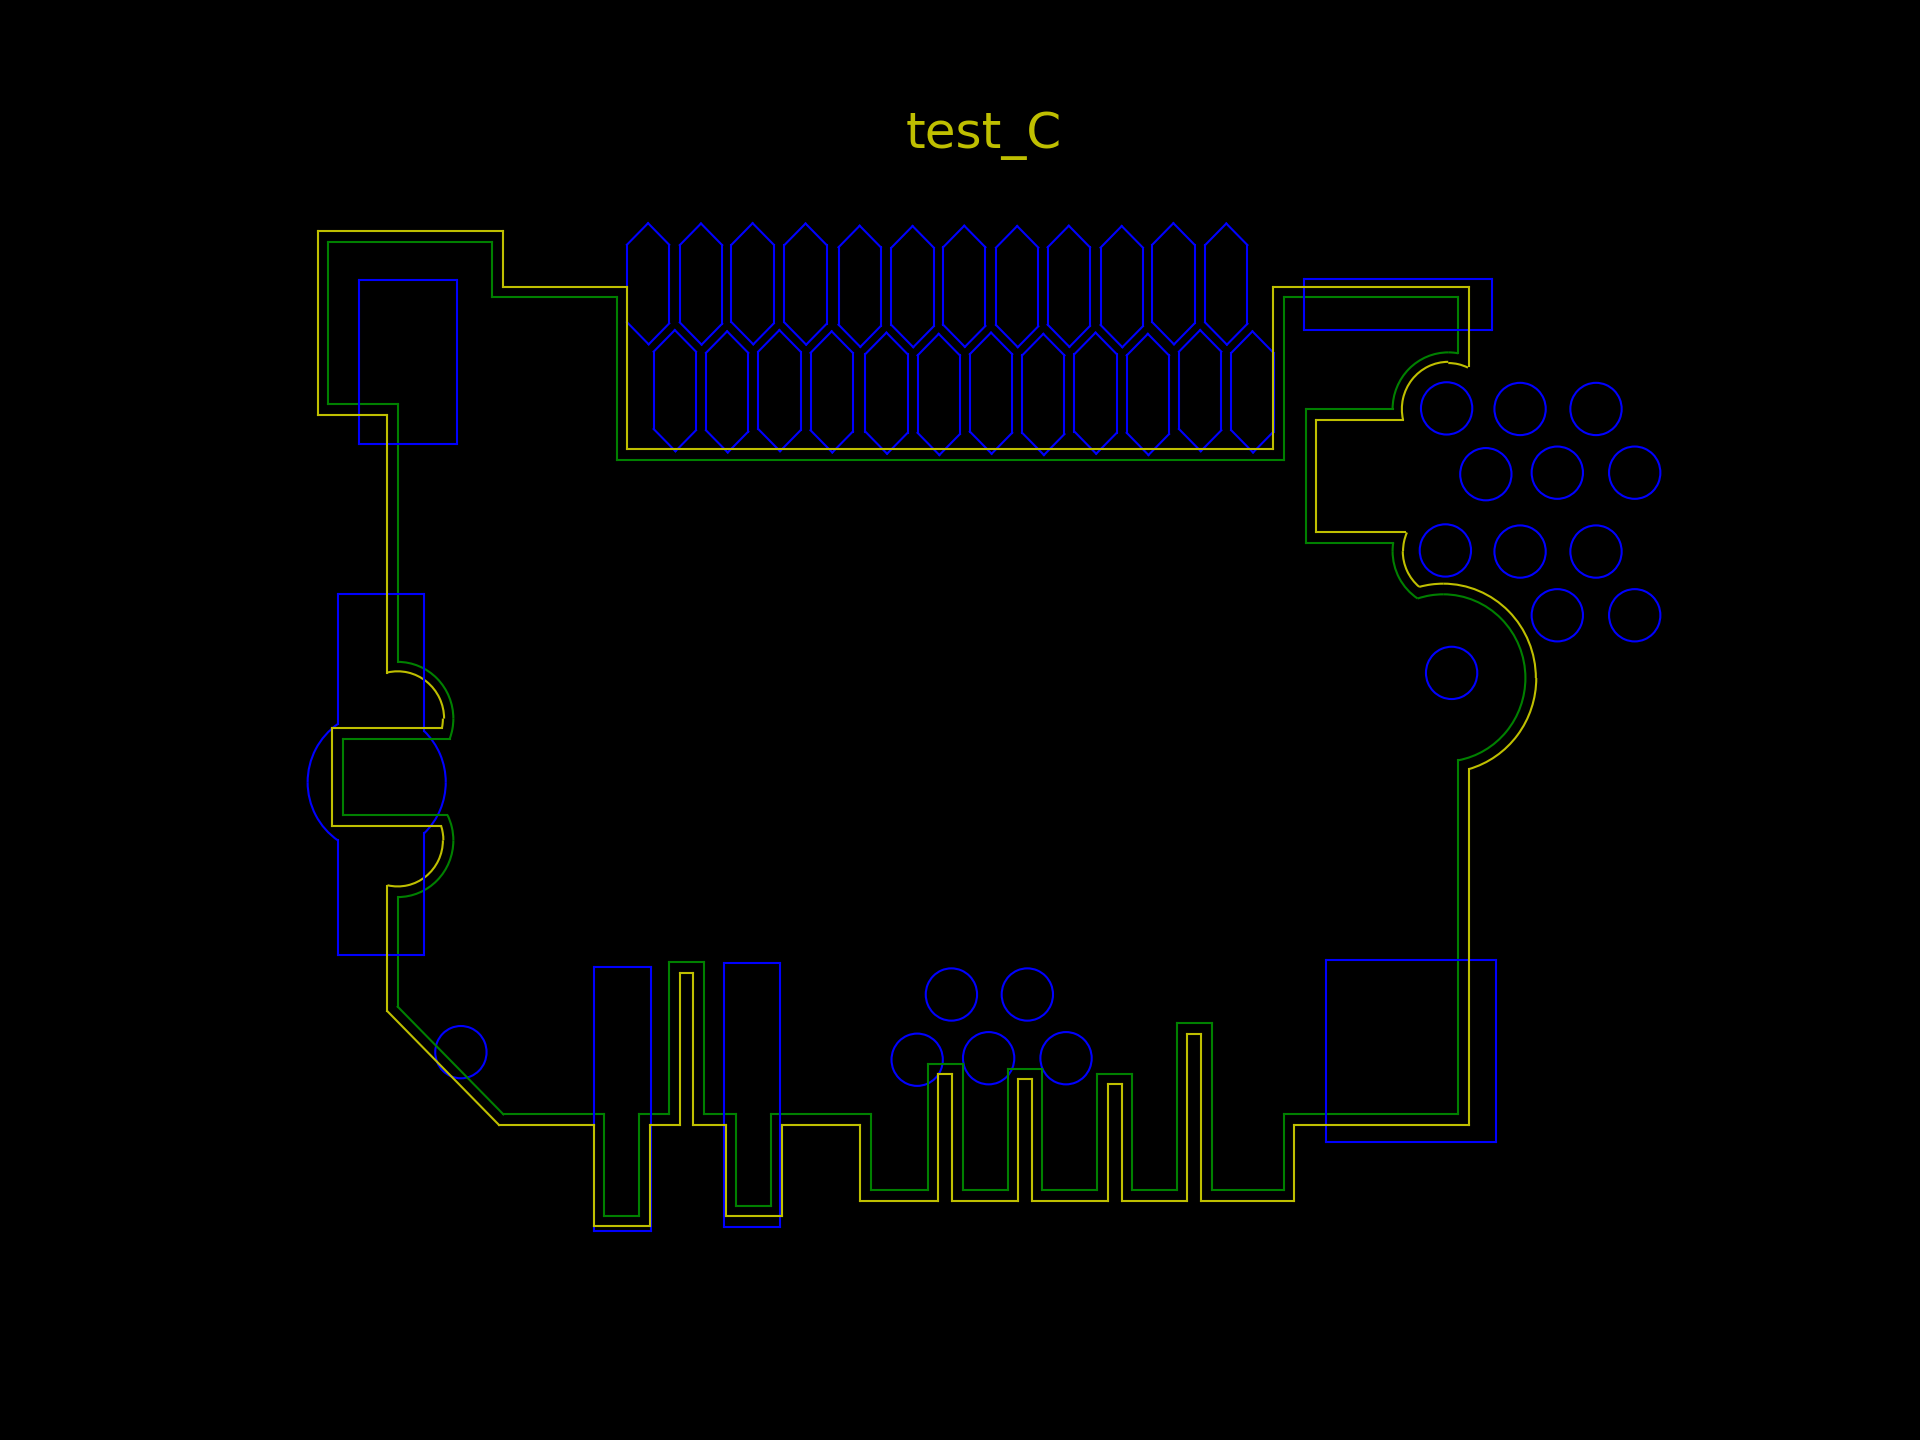
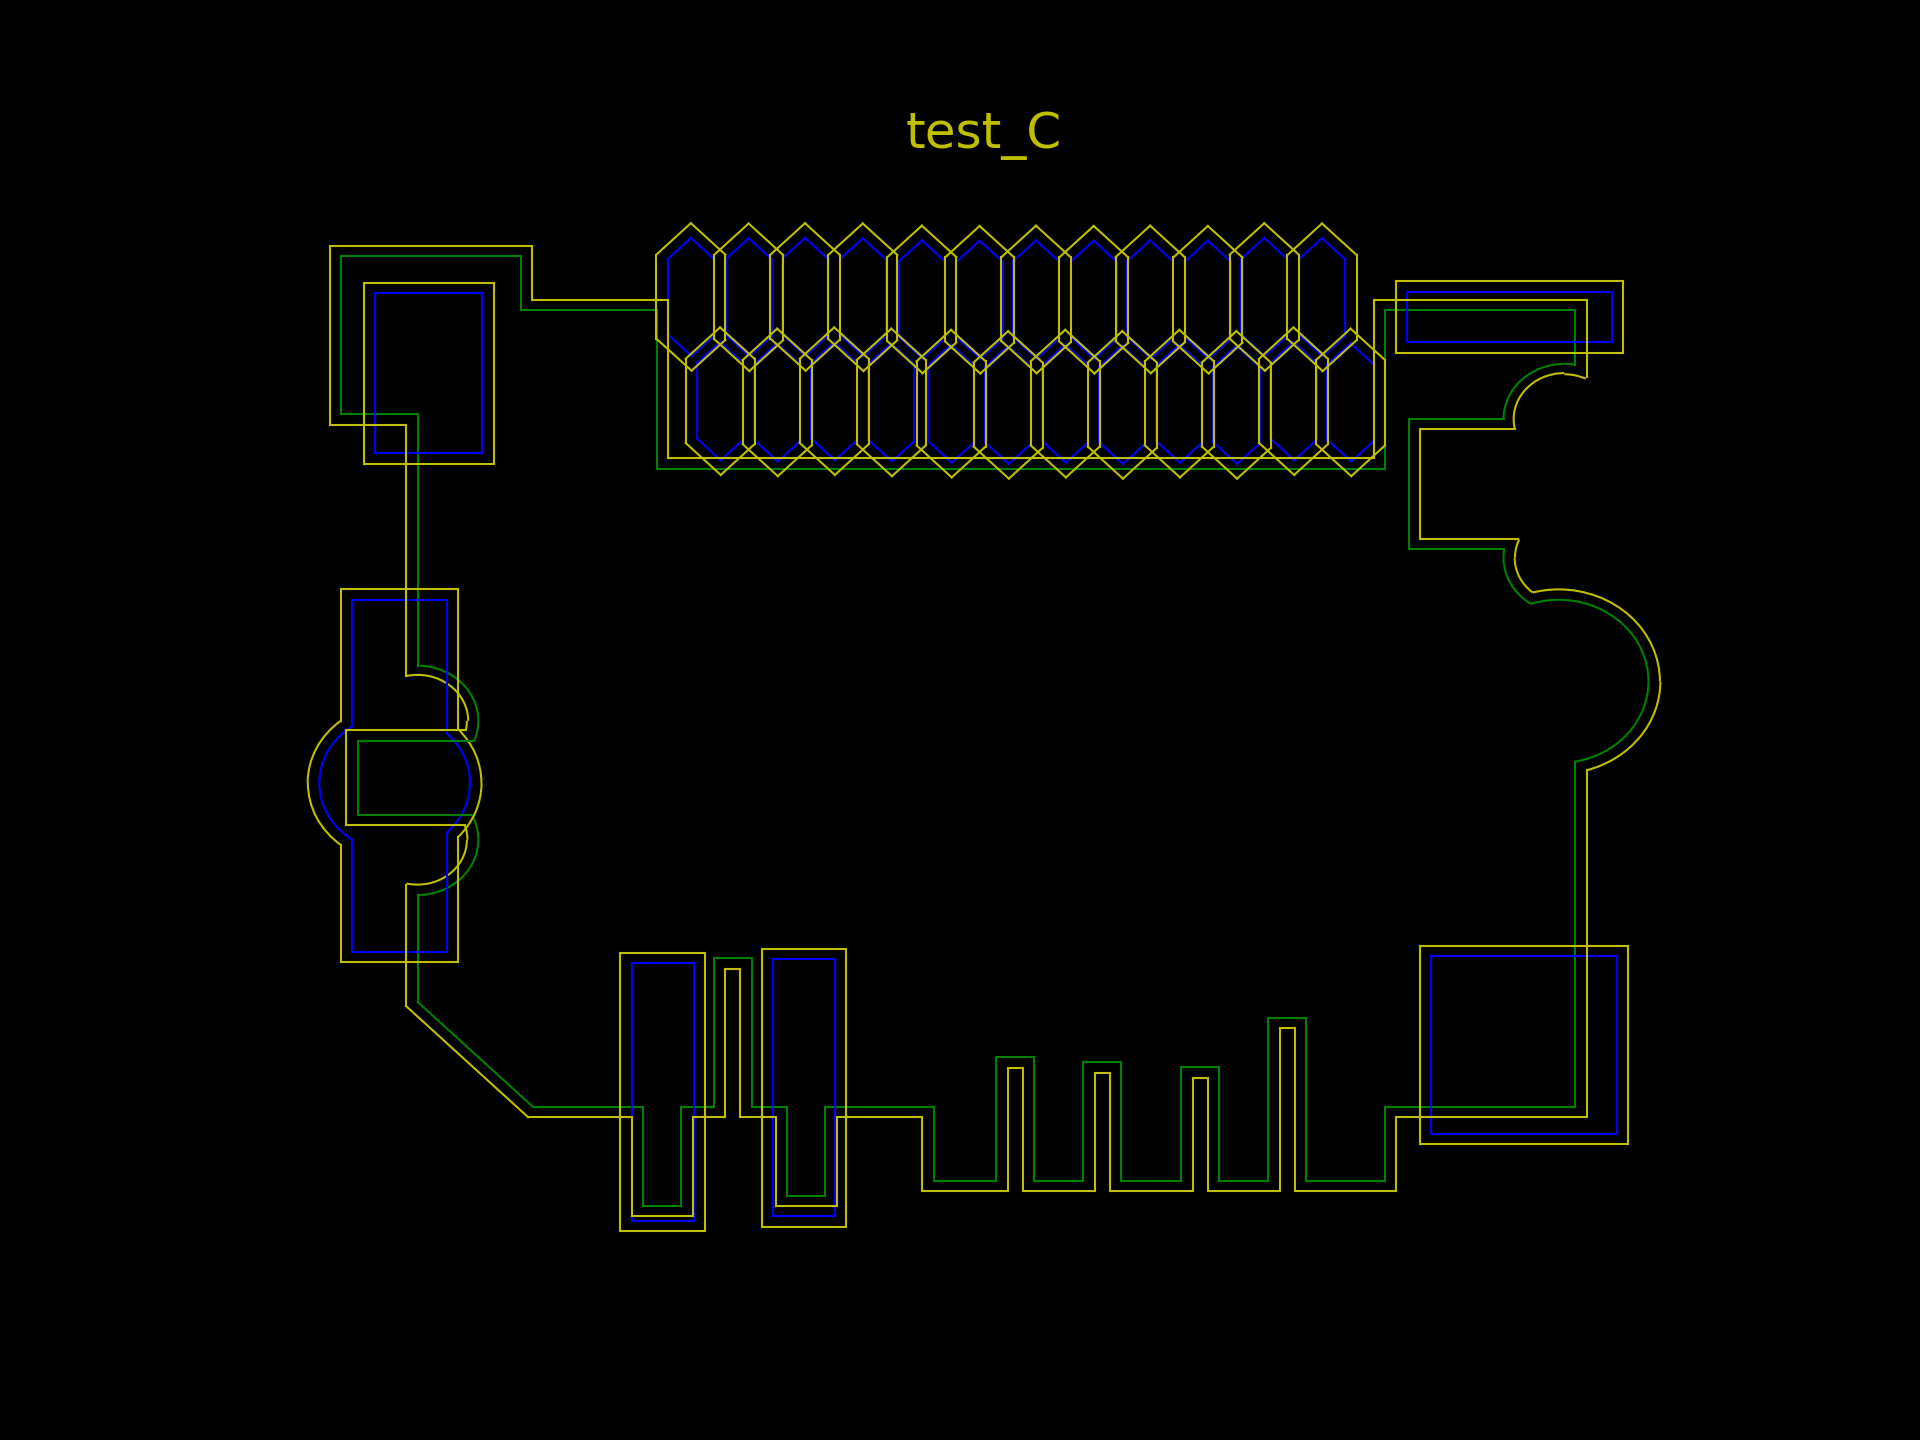
silkscreen and copper barrier successfully generated

diff --git a/main.cpp b/main.cpp
@@ -54,7 +54,7 @@ vector<vector<segment>> Read_Copper(fstream &);
 
 vector<Point> Line_to_Point(const vector<segment>); //將線段切割成點
 
-vector<segment> Silkscreen_Buffer(const vector<segment>);
+vector<segment> Buffer(const vector<segment>);
 
 float interpolate_x(const float, const Point, const Point);
 
@@ -84,10 +84,19 @@ int main()
     assembly = Read_Assembly(file);
     copper = Read_Copper(file);
 
-    silkscreen = Silkscreen_Buffer(assembly);
+    silkscreen = Buffer(assembly);
 
     Write_File(silkscreen);
+    vector<segment> copper_barrier;
+    vector<vector<segment>> whole_copper_barrier;
 
+    for (int i = 0; i < copper.size(); i++)
+    {
+        copper_barrier.clear();
+        copper_barrier = Buffer(copper[i]);
+        Write_File(copper_barrier);
+        whole_copper_barrier.push_back(copper_barrier);
+    }
     // calculate the silkscreen
     // ignore the arc first
 
@@ -241,7 +250,6 @@ segment line_offset(const segment original_line, const float assemblygap) // not
 }
 */
 
-
 vector<Point> Line_to_Point(const vector<segment> Assembly) //將線段切割成點
 {
     const int size = Assembly.size();
@@ -260,13 +268,13 @@ vector<Point> Line_to_Point(const vector<segment> Assembly) //將線段切割成
         {
             Point_Overlap.x = first_line.x1;
             Point_Overlap.y = first_line.y1;
-            //if(!first_line.is_line) Point_Overlap.arc_or_not = true;
+            // if(!first_line.is_line) Point_Overlap.arc_or_not = true;
         }
         else
         {
             Point_Overlap.x = first_line.x2;
             Point_Overlap.y = first_line.y2;
-            //if(!second_line.is_line) Point_Overlap.arc_or_not = true;
+            // if(!second_line.is_line) Point_Overlap.arc_or_not = true;
         }
         if (second_line.is_line)
             Point_Overlap.Next_Arc = false;
@@ -281,7 +289,7 @@ vector<Point> Arc_to_Line(const vector<segment> Assembly)
 {
     const int size = Assembly.size();
     for (size_t i = 0; i < size; i++)
-    {   
+    {
         segment new_line;
         segment first_line, second_line;
         first_line = Assembly[i];
@@ -310,9 +318,7 @@ vector<Point> Arc_to_Line(const vector<segment> Assembly)
     //the struct "segment" need a extra bool to tell Silkscreen_Buffer the first and second line are forbidden to extrapolate
 }*/
 
-
-
-vector<segment> Silkscreen_Buffer(const vector<segment> Assembly) //產生絲印
+vector<segment> Buffer(const vector<segment> Assembly) //產生絲印
 {
     const int size = Assembly.size();
     vector<Point> Assembly_Points;
@@ -474,7 +480,7 @@ void Write_File(const vector<segment> Silkscreen)
 {
     fstream Output;
 
-    Output.open(OUTPUT_PATH, ios::out);
+    Output.open(OUTPUT_PATH, ios::app);
     Output << "silkscreen" << endl;
     const int size = Silkscreen.size();
     for (size_t i = 0; i < size; i++)

diff --git a/README.md b/README.md
@@ -8,9 +8,9 @@
 
         直線外擴焦點
 
-    圓與直線交點斜率
+    (DONE) 圓與直線交點斜率
 
-    外擴圓心
+    (DONE) 外擴圓心
 
     copper 外擴 與 絲印交點
 
@@ -78,6 +78,22 @@ Point
     ```
 
 ## Algorithms
+
+2022/6/1
+
+silkscreen successfull printed, same as copper expansion
+
+new function
+
+    interpolate_x()
+    
+    point_in_polygon()
+
+    use them to correct the point in polygon judgement
+
+copyright: <https://web.ntnu.edu.tw/~algo/Polygon.html>
+
+Peter Raymond Macoto
 
 2022/5/27
 
